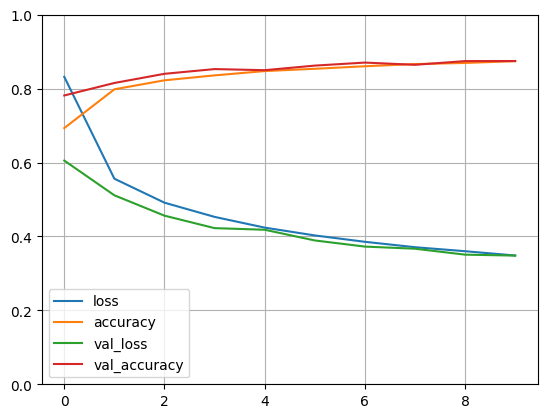
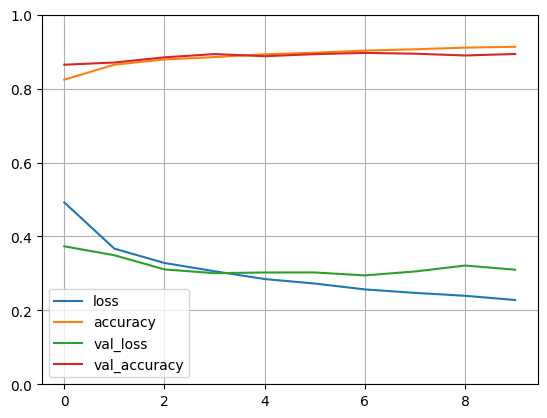
Built site for gh-pages

diff --git a/core/blogs/image_classification/image_classification.html b/core/blogs/image_classification/image_classification.html
@@ -164,7 +164,7 @@ pre > code.sourceCode > span > a:first-child::before { text-decoration: underlin
 <!-- content -->
 <header id="title-block-header" class="quarto-title-block default page-columns page-full">
   <div class="quarto-title-banner page-columns page-full">
-    <div class="quarto-title column-body">
+    <div class="quarto-title column-page-left">
       <h1 class="title">Image classification</h1>
                   <div>
         <div class="description">
@@ -181,7 +181,7 @@ pre > code.sourceCode > span > a:first-child::before { text-decoration: underlin
   </div>
     
   
-  <div class="quarto-title-meta">
+  <div class="quarto-title-meta column-page-left">
 
       <div>
       <div class="quarto-title-meta-heading">Author</div>
@@ -201,7 +201,7 @@ pre > code.sourceCode > span > a:first-child::before { text-decoration: underlin
     </div>
     
   
-  </header><div id="quarto-content" class="quarto-container page-columns page-rows-contents page-layout-article page-navbar">
+  </header><div id="quarto-content" class="quarto-container page-columns page-rows-contents page-layout-full page-navbar">
 <!-- sidebar -->
 <!-- margin-sidebar -->
     <div id="quarto-margin-sidebar" class="sidebar margin-sidebar">
@@ -218,7 +218,7 @@ pre > code.sourceCode > span > a:first-child::before { text-decoration: underlin
 </nav>
     </div>
 <!-- main -->
-<main class="content quarto-banner-title-block" id="quarto-document-content">
+<main class="content quarto-banner-title-block column-page-left" id="quarto-document-content">
 
 
 
@@ -226,7 +226,7 @@ pre > code.sourceCode > span > a:first-child::before { text-decoration: underlin
 
 <section id="import-the-fashion-mnist-dataset" class="level2">
 <h2 class="anchored" data-anchor-id="import-the-fashion-mnist-dataset">Import the fashion MNIST dataset</h2>
-<div id="cell-2" class="cell" data-execution_count="26">
+<div id="cell-2" class="cell" data-execution_count="1">
 <details class="code-fold">
 <summary>Code</summary>
 <div class="sourceCode cell-code" id="cb1"><pre class="sourceCode python code-with-copy"><code class="sourceCode python"><span id="cb1-1"><a href="#cb1-1" aria-hidden="true" tabindex="-1"></a><span class="im">import</span> tensorflow <span class="im">as</span> tf</span>
@@ -281,7 +281,7 @@ pre > code.sourceCode > span > a:first-child::before { text-decoration: underlin
 </div>
 </div>
 </div>
-<div id="cell-7" class="cell" data-execution_count="19">
+<div id="cell-7" class="cell" data-execution_count="5">
 <details class="code-fold">
 <summary>Code</summary>
 <div class="sourceCode cell-code" id="cb8"><pre class="sourceCode python code-with-copy"><code class="sourceCode python"><span id="cb8-1"><a href="#cb8-1" aria-hidden="true" tabindex="-1"></a>x_valid, x_train <span class="op">=</span> train_data[:<span class="dv">5000</span>] <span class="op">/</span> <span class="fl">255.0</span>, train_data[<span class="dv">5000</span>:]<span class="op">/</span><span class="fl">255.0</span></span>
@@ -319,7 +319,7 @@ pre > code.sourceCode > span > a:first-child::before { text-decoration: underlin
 <section id="building-the-model-using-neural-network" class="level2">
 <h2 class="anchored" data-anchor-id="building-the-model-using-neural-network">Building the model using neural network</h2>
 <p>Sequential Model is the simplest form of Model that keras library provides. It is composed of a single stack of layer connected sequentially. Also, known as sequential API. The first layer in the model is is Flatten model ,which simply flattens the 2D image array to 1D. Then, the Dense layer with 300 neurons which uses Relu as an activation function is stacked. Then, there is second Dense layer with 100 neurons , with same Relu as activation function. The final layer in the model stack is output layuer, which is also a Dense layer with 10 neurons (one per class) and it uses softmax function for multi-class classification.</p>
-<div id="cell-12" class="cell" data-execution_count="24">
+<div id="cell-12" class="cell" data-execution_count="8">
 <details class="code-fold">
 <summary>Code</summary>
 <div class="sourceCode cell-code" id="cb11"><pre class="sourceCode python code-with-copy"><code class="sourceCode python"><span id="cb11-1"><a href="#cb11-1" aria-hidden="true" tabindex="-1"></a>input_layer <span class="op">=</span> tf.keras.layers.Flatten(input_shape<span class="op">=</span>(<span class="dv">28</span>,<span class="dv">28</span>))</span>
@@ -335,17 +335,17 @@ pre > code.sourceCode > span > a:first-child::before { text-decoration: underlin
 <span id="cb11-11"><a href="#cb11-11" aria-hidden="true" tabindex="-1"></a>model.summary()</span></code><button title="Copy to Clipboard" class="code-copy-button"><i class="bi"></i></button></pre></div>
 </details>
 <div class="cell-output cell-output-stdout">
-<pre><code>Model: "sequential_6"
+<pre><code>Model: "sequential"
 _________________________________________________________________
  Layer (type)                Output Shape              Param #   
 =================================================================
- flatten_6 (Flatten)         (None, 784)               0         
+ flatten (Flatten)           (None, 784)               0         
                                                                  
- dense_17 (Dense)            (None, 300)               235500    
+ dense (Dense)               (None, 300)               235500    
                                                                  
- dense_18 (Dense)            (None, 100)               30100     
+ dense_1 (Dense)             (None, 100)               30100     
                                                                  
- dense_19 (Dense)            (None, 10)                1010      
+ dense_2 (Dense)             (None, 10)                1010      
                                                                  
 =================================================================
 Total params: 266610 (1.02 MB)
@@ -357,7 +357,7 @@ _________________________________________________________________</code></pre>
 </section>
 <section id="training-the-model" class="level2">
 <h2 class="anchored" data-anchor-id="training-the-model">Training the model</h2>
-<div id="cell-14" class="cell" data-execution_count="25">
+<div id="cell-14" class="cell" data-execution_count="9">
 <details class="code-fold">
 <summary>Code</summary>
 <div class="sourceCode cell-code" id="cb13"><pre class="sourceCode python code-with-copy"><code class="sourceCode python"><span id="cb13-1"><a href="#cb13-1" aria-hidden="true" tabindex="-1"></a>model.<span class="bu">compile</span>(optimizer<span class="op">=</span>optimizer, loss<span class="op">=</span> loss_function, metrics<span class="op">=</span>metrics )</span>
@@ -365,28 +365,28 @@ _________________________________________________________________</code></pre>
 </details>
 <div class="cell-output cell-output-stdout">
 <pre><code>Epoch 1/10
-1719/1719 [==============================] - 2s 888us/step - loss: 0.8318 - accuracy: 0.6932 - val_loss: 0.6053 - val_accuracy: 0.7814
+1719/1719 [==============================] - 2s 852us/step - loss: 0.4921 - accuracy: 0.8241 - val_loss: 0.3733 - val_accuracy: 0.8646
 Epoch 2/10
-1719/1719 [==============================] - 1s 816us/step - loss: 0.5562 - accuracy: 0.7981 - val_loss: 0.5113 - val_accuracy: 0.8152
+1719/1719 [==============================] - 1s 788us/step - loss: 0.3670 - accuracy: 0.8647 - val_loss: 0.3491 - val_accuracy: 0.8706
 Epoch 3/10
-1719/1719 [==============================] - 1s 847us/step - loss: 0.4913 - accuracy: 0.8224 - val_loss: 0.4562 - val_accuracy: 0.8400
+1719/1719 [==============================] - 2s 891us/step - loss: 0.3282 - accuracy: 0.8789 - val_loss: 0.3108 - val_accuracy: 0.8846
 Epoch 4/10
-1719/1719 [==============================] - 1s 801us/step - loss: 0.4529 - accuracy: 0.8358 - val_loss: 0.4225 - val_accuracy: 0.8528
+1719/1719 [==============================] - 1s 775us/step - loss: 0.3058 - accuracy: 0.8853 - val_loss: 0.3005 - val_accuracy: 0.8934
 Epoch 5/10
-1719/1719 [==============================] - 1s 791us/step - loss: 0.4239 - accuracy: 0.8474 - val_loss: 0.4181 - val_accuracy: 0.8498
+1719/1719 [==============================] - 1s 822us/step - loss: 0.2847 - accuracy: 0.8929 - val_loss: 0.3024 - val_accuracy: 0.8876
 Epoch 6/10
-1719/1719 [==============================] - 1s 788us/step - loss: 0.4027 - accuracy: 0.8536 - val_loss: 0.3892 - val_accuracy: 0.8622
+1719/1719 [==============================] - 1s 769us/step - loss: 0.2725 - accuracy: 0.8971 - val_loss: 0.3025 - val_accuracy: 0.8932
 Epoch 7/10
-1719/1719 [==============================] - 1s 784us/step - loss: 0.3855 - accuracy: 0.8605 - val_loss: 0.3725 - val_accuracy: 0.8704
+1719/1719 [==============================] - 1s 799us/step - loss: 0.2566 - accuracy: 0.9029 - val_loss: 0.2946 - val_accuracy: 0.8966
 Epoch 8/10
-1719/1719 [==============================] - 1s 787us/step - loss: 0.3709 - accuracy: 0.8663 - val_loss: 0.3668 - val_accuracy: 0.8644
+1719/1719 [==============================] - 1s 776us/step - loss: 0.2473 - accuracy: 0.9064 - val_loss: 0.3052 - val_accuracy: 0.8944
 Epoch 9/10
-1719/1719 [==============================] - 2s 985us/step - loss: 0.3600 - accuracy: 0.8694 - val_loss: 0.3507 - val_accuracy: 0.8744
+1719/1719 [==============================] - 1s 784us/step - loss: 0.2394 - accuracy: 0.9109 - val_loss: 0.3212 - val_accuracy: 0.8896
 Epoch 10/10
-1719/1719 [==============================] - 2s 971us/step - loss: 0.3484 - accuracy: 0.8742 - val_loss: 0.3482 - val_accuracy: 0.8746</code></pre>
+1719/1719 [==============================] - 1s 818us/step - loss: 0.2280 - accuracy: 0.9131 - val_loss: 0.3100 - val_accuracy: 0.8936</code></pre>
 </div>
 </div>
-<div id="cell-15" class="cell" data-execution_count="30">
+<div id="cell-15" class="cell" data-execution_count="10">
 <details class="code-fold">
 <summary>Code</summary>
 <div class="sourceCode cell-code" id="cb15"><pre class="sourceCode python code-with-copy"><code class="sourceCode python"><span id="cb15-1"><a href="#cb15-1" aria-hidden="true" tabindex="-1"></a></span>
@@ -406,14 +406,14 @@ Epoch 10/10
 </section>
 <section id="testing-the-model" class="level2">
 <h2 class="anchored" data-anchor-id="testing-the-model">Testing the model</h2>
-<div id="cell-18" class="cell" data-execution_count="18">
+<div id="cell-17" class="cell" data-execution_count="11">
 <details class="code-fold">
 <summary>Code</summary>
 <div class="sourceCode cell-code" id="cb16"><pre class="sourceCode python code-with-copy"><code class="sourceCode python"><span id="cb16-1"><a href="#cb16-1" aria-hidden="true" tabindex="-1"></a>test_loss, test_acc <span class="op">=</span> model.evaluate(test_data, test_label)</span>
 <span id="cb16-2"><a href="#cb16-2" aria-hidden="true" tabindex="-1"></a></span></code><button title="Copy to Clipboard" class="code-copy-button"><i class="bi"></i></button></pre></div>
 </details>
 <div class="cell-output cell-output-stdout">
-<pre><code>313/313 [==============================] - 0s 422us/step - loss: 0.3523 - accuracy: 0.8825</code></pre>
+<pre><code>313/313 [==============================] - 0s 433us/step - loss: 55.4865 - accuracy: 0.8696</code></pre>
 </div>
 </div>
 

diff --git a/index.html b/index.html
@@ -243,7 +243,7 @@ Learn More
 <div class="card-grid">
 <div id="listing-services-listing" class="quarto-listing quarto-listing-container-grid">
 <div class="list grid quarto-listing-cols-3">
-<div class="g-col-1" data-index="0" data-categories="news,code,analysis" data-listing-file-modified-sort="1709523299673" data-listing-reading-time-sort="2" data-listing-word-count-sort="237">
+<div class="g-col-1" data-index="0" data-categories="news,code,analysis" data-listing-file-modified-sort="1709524652033" data-listing-reading-time-sort="2" data-listing-word-count-sort="237">
 <a href="./core/solutions/1_Artificial Intelligence/artificial_intelligence.html" class="quarto-grid-link">
 <div class="quarto-grid-item card h-100 card-left">
 <p class="card-img-top">
@@ -263,7 +263,7 @@ Enhance your data capabilities with our specialized web scraping services, tailo
 </div>
 </a>
 </div>
-<div class="g-col-1" data-index="1" data-categories="news,code,analysis" data-listing-file-modified-sort="1709523299673" data-listing-reading-time-sort="2" data-listing-word-count-sort="237">
+<div class="g-col-1" data-index="1" data-categories="news,code,analysis" data-listing-file-modified-sort="1709524652033" data-listing-reading-time-sort="2" data-listing-word-count-sort="237">
 <a href="./core/solutions/6_Consulting/consulting.html" class="quarto-grid-link">
 <div class="quarto-grid-item card h-100 card-left">
 <p class="card-img-top">
@@ -283,7 +283,7 @@ Enhance your data capabilities with our specialized web scraping services, tailo
 </div>
 </a>
 </div>
-<div class="g-col-1" data-index="2" data-categories="news,code,analysis" data-listing-file-modified-sort="1709523299673" data-listing-reading-time-sort="2" data-listing-word-count-sort="220">
+<div class="g-col-1" data-index="2" data-categories="news,code,analysis" data-listing-file-modified-sort="1709524652033" data-listing-reading-time-sort="2" data-listing-word-count-sort="220">
 <a href="./core/solutions/2_Data Engineering/data-engineering.html" class="quarto-grid-link">
 <div class="quarto-grid-item card h-100 card-left">
 <p class="card-img-top">
@@ -303,7 +303,7 @@ Boost your data capabilities with our streamlined data engineering services, fea
 </div>
 </a>
 </div>
-<div class="g-col-1" data-index="3" data-categories="news,code,analysis" data-listing-file-modified-sort="1709523299673" data-listing-reading-time-sort="2" data-listing-word-count-sort="237">
+<div class="g-col-1" data-index="3" data-categories="news,code,analysis" data-listing-file-modified-sort="1709524652033" data-listing-reading-time-sort="2" data-listing-word-count-sort="237">
 <a href="./core/solutions/5_Tutoring and Mentoring/tutoring_and_mentoring.html" class="quarto-grid-link">
 <div class="quarto-grid-item card h-100 card-left">
 <p class="card-img-top">
@@ -323,7 +323,7 @@ Enhance your data capabilities with our specialized web scraping services, tailo
 </div>
 </a>
 </div>
-<div class="g-col-1" data-index="4" data-categories="news,code,analysis" data-listing-file-modified-sort="1709523299673" data-listing-reading-time-sort="2" data-listing-word-count-sort="237">
+<div class="g-col-1" data-index="4" data-categories="news,code,analysis" data-listing-file-modified-sort="1709524652033" data-listing-reading-time-sort="2" data-listing-word-count-sort="237">
 <a href="./core/solutions/4_Web Application/webapplication.html" class="quarto-grid-link">
 <div class="quarto-grid-item card h-100 card-left">
 <p class="card-img-top">
@@ -343,7 +343,7 @@ Enhance your data capabilities with our specialized web scraping services, tailo
 </div>
 </a>
 </div>
-<div class="g-col-1" data-index="5" data-categories="news,code,analysis" data-listing-file-modified-sort="1709523299673" data-listing-reading-time-sort="2" data-listing-word-count-sort="237">
+<div class="g-col-1" data-index="5" data-categories="news,code,analysis" data-listing-file-modified-sort="1709524652033" data-listing-reading-time-sort="2" data-listing-word-count-sort="237">
 <a href="./core/solutions/3_Webscraping/webscraping.html" class="quarto-grid-link">
 <div class="quarto-grid-item card h-100 card-left">
 <p class="card-img-top">
@@ -378,7 +378,7 @@ No matching items
 <div class="testimonials-grid">
 <div id="listing-testimonial-listing" class="quarto-listing quarto-listing-container-grid">
 <div class="list grid quarto-listing-cols-3">
-<div class="g-col-1" data-index="0" data-categories="news,code,analysis" data-listing-file-modified-sort="1709523299677" data-listing-reading-time-sort="2" data-listing-word-count-sort="237">
+<div class="g-col-1" data-index="0" data-categories="news,code,analysis" data-listing-file-modified-sort="1709524652033" data-listing-reading-time-sort="2" data-listing-word-count-sort="237">
 <a href="./core/testimonials/3_Himanshu_Chaudhary/Himanshu_Chaudhary.html" class="quarto-grid-link">
 <div class="quarto-grid-item card h-100 card-left">
 <p class="card-img-top">
@@ -398,7 +398,7 @@ Full Stack Engineer at Wealthfront
 </div>
 </a>
 </div>
-<div class="g-col-1" data-index="1" data-categories="news,code,analysis" data-listing-file-modified-sort="1709523299677" data-listing-reading-time-sort="2" data-listing-word-count-sort="220">
+<div class="g-col-1" data-index="1" data-categories="news,code,analysis" data-listing-file-modified-sort="1709524652033" data-listing-reading-time-sort="2" data-listing-word-count-sort="220">
 <a href="./core/testimonials/2_Sarun_Luitel/sarun_luitel.html" class="quarto-grid-link">
 <div class="quarto-grid-item card h-100 card-left">
 <p class="card-img-top">
@@ -418,7 +418,7 @@ Data Engineer at UNM BBER
 </div>
 </a>
 </div>
-<div class="g-col-1" data-index="2" data-categories="news,code,analysis" data-listing-file-modified-sort="1709523299677" data-listing-reading-time-sort="2" data-listing-word-count-sort="237">
+<div class="g-col-1" data-index="2" data-categories="news,code,analysis" data-listing-file-modified-sort="1709524652033" data-listing-reading-time-sort="2" data-listing-word-count-sort="237">
 <a href="./core/testimonials/1_Tyler_Ryan/tyler_ryan.html" class="quarto-grid-link">
 <div class="quarto-grid-item card h-100 card-left">
 <p class="card-img-top">

diff --git a/core/blog.html b/core/blog.html
@@ -250,7 +250,7 @@ window.Quarto = {
     </div>
 </div>
 <div class="list quarto-listing-default">
-<div class="quarto-post image-right" data-index="0" data-categories="keras,teserflow,AI,python" data-listing-date-sort="1708300800000" data-listing-file-modified-sort="1709523299673" data-listing-date-modified-sort="NaN" data-listing-reading-time-sort="1" data-listing-word-count-sort="123">
+<div class="quarto-post image-right" data-index="0" data-categories="keras,teserflow,AI,python" data-listing-date-sort="1708300800000" data-listing-file-modified-sort="1709524652033" data-listing-date-modified-sort="NaN" data-listing-reading-time-sort="1" data-listing-word-count-sort="123">
 <div class="thumbnail">
 <p><a href="../core/blogs/image_classification/image_classification.html" class="no-external"></a></p><a href="../core/blogs/image_classification/image_classification.html" class="no-external">
 <p class="card-img-top"><img src="blogs/image_classification/image_classification_files/figure-html/cell-5-output-1.png"  class="thumbnail-image card-img"/></p>
@@ -278,7 +278,7 @@ Aakash Basnet
 </a>
 </div>
 </div>
-<div class="quarto-post image-right" data-index="1" data-categories="webscraping,code,ETL,python" data-listing-date-sort="1706918400000" data-listing-file-modified-sort="1709523299673" data-listing-date-modified-sort="NaN" data-listing-reading-time-sort="1" data-listing-word-count-sort="97">
+<div class="quarto-post image-right" data-index="1" data-categories="webscraping,code,ETL,python" data-listing-date-sort="1706918400000" data-listing-file-modified-sort="1709524652033" data-listing-date-modified-sort="NaN" data-listing-reading-time-sort="1" data-listing-word-count-sort="97">
 <div class="thumbnail">
 <p><a href="../core/blogs/indeed/indeed-job-scraper.html" class="no-external"></a></p><a href="../core/blogs/indeed/indeed-job-scraper.html" class="no-external">
 <div class="listing-item-img-placeholder card-img-top" >&nbsp;</div>
@@ -306,7 +306,7 @@ Aakash Basnet
 </a>
 </div>
 </div>
-<div class="quarto-post image-right" data-index="2" data-categories="webscraping,code,ETL,python" data-listing-date-sort="1706918400000" data-listing-file-modified-sort="1709523299673" data-listing-date-modified-sort="NaN" data-listing-reading-time-sort="1" data-listing-word-count-sort="56">
+<div class="quarto-post image-right" data-index="2" data-categories="webscraping,code,ETL,python" data-listing-date-sort="1706918400000" data-listing-file-modified-sort="1709524652033" data-listing-date-modified-sort="NaN" data-listing-reading-time-sort="1" data-listing-word-count-sort="56">
 <div class="thumbnail">
 <p><a href="../core/blogs/rotating_proxies/rotating_proxies_example.html" class="no-external"></a></p><a href="../core/blogs/rotating_proxies/rotating_proxies_example.html" class="no-external">
 <div class="listing-item-img-placeholder card-img-top" >&nbsp;</div>
